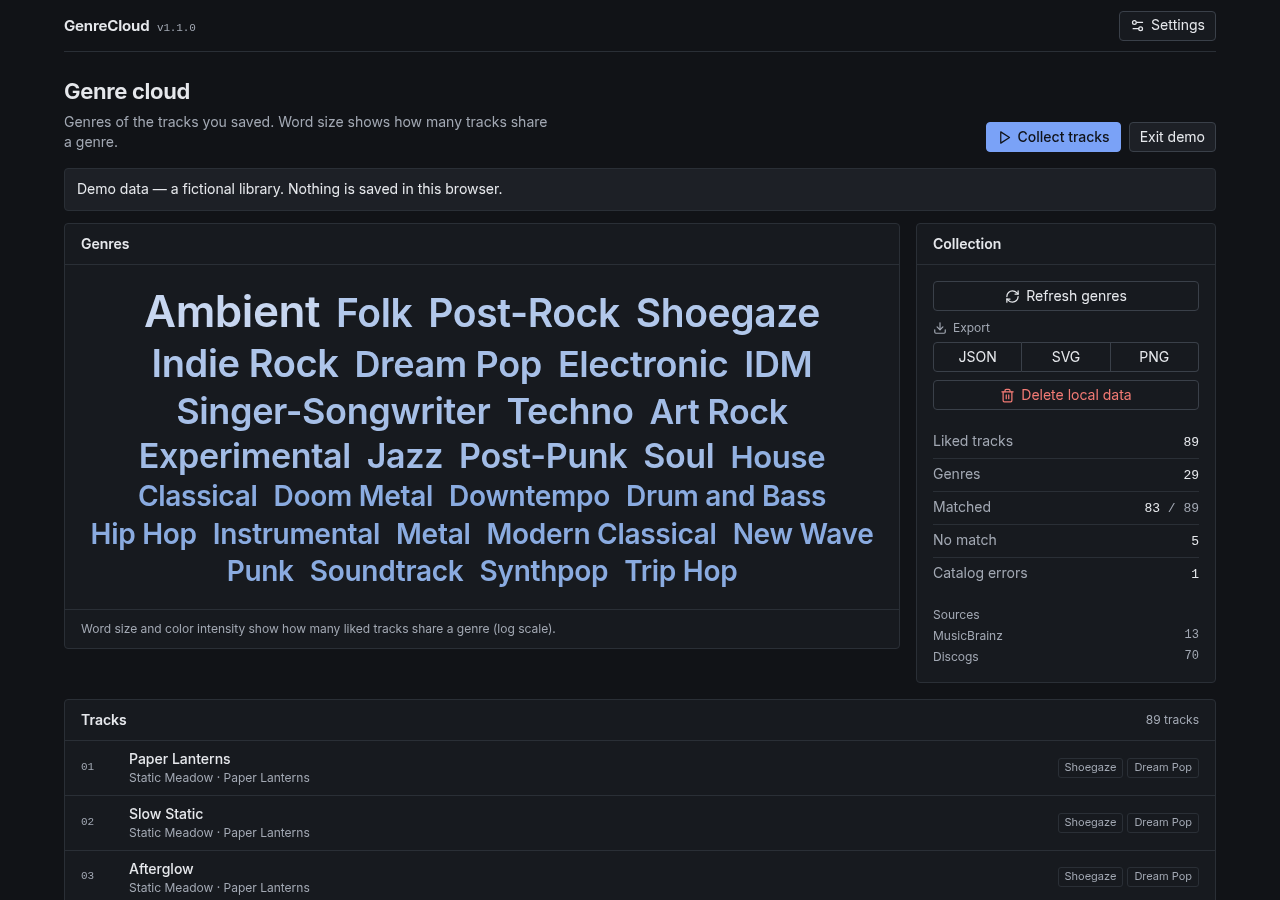
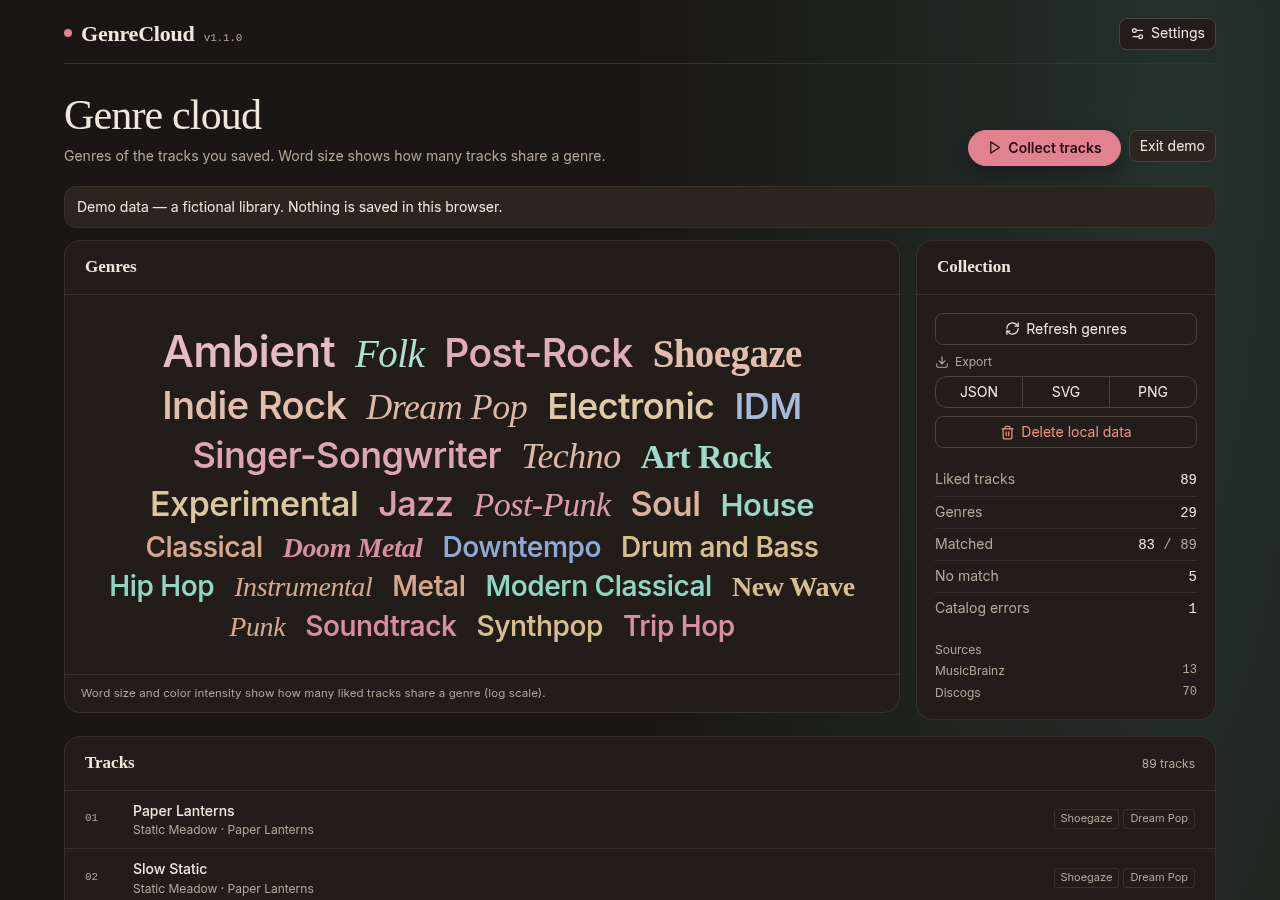
feat(ui): restore the warm paper visual style

diff --git a/src/index.css b/src/index.css
@@ -808,3 +808,216 @@ h3 {
   gap: 8px;
   font-size: 13px;
 }
+
+/* Classic skin: warm paper, ink-like genre colours and serif display type. */
+:root {
+  --bg: #f4efe4;
+  --surface: #fcf8ef;
+  --surface-2: #f1eadc;
+  --text: #232019;
+  --muted: #6b6357;
+  --border: #e2d8c6;
+  --border-strong: #cfc2aa;
+  --accent: #b23a52;
+  --accent-hover: #9a2f45;
+  --accent-soft: #f8e4e7;
+  --danger: #9c2a1f;
+  --danger-soft: #fbe8e4;
+  --radius: 12px;
+  --serif: 'Iowan Old Style', 'Palatino Linotype', Palatino, Georgia, 'Times New Roman', serif;
+}
+
+@media (prefers-color-scheme: dark) {
+  :root {
+    --bg: #191613;
+    --surface: #221d19;
+    --surface-2: #2b2520;
+    --text: #efe7da;
+    --muted: #b3a797;
+    --border: #3a322a;
+    --border-strong: #4c4238;
+    --accent: #e2818f;
+    --accent-hover: #ec98a4;
+    --accent-soft: #38262a;
+    --danger: #ef8f82;
+    --danger-soft: #3a2420;
+  }
+}
+
+body {
+  background:
+    radial-gradient(ellipse at 92% 2%, hsl(168 30% 78% / 0.35), transparent 34rem),
+    radial-gradient(ellipse at 4% 96%, hsl(39 70% 80% / 0.28), transparent 30rem), var(--bg);
+  background-attachment: fixed;
+}
+
+@media (prefers-color-scheme: dark) {
+  body {
+    background:
+      radial-gradient(ellipse at 92% 2%, hsl(168 24% 24% / 0.5), transparent 34rem),
+      radial-gradient(ellipse at 4% 96%, hsl(32 30% 22% / 0.5), transparent 30rem), var(--bg);
+  }
+}
+
+.app {
+  padding-top: 4px;
+}
+
+.topbar {
+  border-bottom: 1px solid var(--border);
+  min-height: 60px;
+}
+
+.brand {
+  font-family: var(--serif);
+  font-size: 22px;
+  font-weight: 600;
+  letter-spacing: -0.01em;
+}
+
+.brand::before {
+  content: '';
+  display: inline-block;
+  width: 8px;
+  height: 8px;
+  margin-right: 9px;
+  border-radius: 50%;
+  background: var(--accent);
+  vertical-align: 0.18em;
+}
+
+h1 {
+  font-family: var(--serif);
+  font-size: clamp(30px, 3.4vw, 42px);
+  font-weight: 500;
+  line-height: 1.04;
+  letter-spacing: -0.02em;
+  margin-bottom: 8px;
+}
+
+h2 {
+  font-family: var(--serif);
+  font-size: 17px;
+  font-weight: 600;
+}
+
+.page-head {
+  padding: 30px 0 20px;
+}
+
+.page-subtitle {
+  color: var(--muted);
+  max-width: 62ch;
+}
+
+button {
+  height: 32px;
+  border-radius: 8px;
+  background: var(--surface);
+  border-color: var(--border-strong);
+}
+
+button:hover:not(:disabled) {
+  background: var(--surface-2);
+}
+
+button.primary {
+  height: 36px;
+  padding: 0 18px;
+  border-radius: 999px;
+  background: var(--accent);
+  border-color: var(--accent);
+  color: #fff8f0;
+  font-weight: 600;
+  box-shadow: 0 8px 18px hsl(350 52% 46% / 0.24);
+}
+
+button.primary:hover:not(:disabled) {
+  background: var(--accent-hover);
+  border-color: var(--accent-hover);
+}
+
+@media (prefers-color-scheme: dark) {
+  button.primary {
+    color: #241014;
+    box-shadow: 0 8px 18px #00000040;
+  }
+}
+
+.panel {
+  border-radius: 16px;
+  background: var(--surface);
+  border-color: var(--border);
+  box-shadow: 0 1px 0 hsl(32 30% 30% / 0.04);
+}
+
+.panel-head {
+  padding: 14px 20px;
+}
+
+.cloud {
+  padding: 30px 22px;
+  gap: 4px 14px;
+}
+
+.cloud-word {
+  font-weight: 550;
+  letter-spacing: -0.015em;
+}
+
+.cloud-word:nth-child(4n + 2) {
+  font-family: var(--serif);
+  font-style: italic;
+  font-weight: 500;
+}
+
+.cloud-word:nth-child(7n + 4) {
+  font-family: var(--serif);
+  font-weight: 600;
+}
+
+.cloud-word.is-selected {
+  border-radius: 6px;
+  background: var(--accent-soft);
+  outline: 2px solid var(--accent);
+  outline-offset: 1px;
+}
+
+.selection-bar {
+  background: var(--accent-soft);
+}
+
+.legend {
+  font-size: 11.5px;
+  letter-spacing: 0.01em;
+}
+
+.side-body {
+  padding: 18px;
+}
+
+.stats dd {
+  font-size: 14px;
+}
+
+.track-row {
+  padding: 10px 20px;
+}
+
+.track-row:hover {
+  background: var(--surface-2);
+}
+
+.notice {
+  border-radius: 12px;
+}
+
+@media (max-width: 720px) {
+  .page-head {
+    padding-top: 22px;
+  }
+
+  .cloud {
+    padding: 20px 14px;
+  }
+}

diff --git a/src/lib/cloud.ts b/src/lib/cloud.ts
@@ -23,17 +23,30 @@ function normalizeWeight(count: number, max: number): number {
   return Math.log(1 + count) / Math.log(1 + max);
 }
 
-export function wordColor(weight: number, theme: CloudTheme): string {
-  const clamped = Math.min(1, Math.max(0, weight));
-  if (theme === 'dark') {
-    // Stronger = lighter on a dark surface. Kept below 90% lightness so the
-    // text never glows, and above 56% for AA contrast on #15171b.
-    const lightness = 56 + Math.round(clamped * 30);
-    return `hsl(217 58% ${lightness}%)`;
+// The classic look used a handful of ink-like hues instead of one accent, so
+// adjacent words stay distinguishable while size still carries the count.
+const WORD_HUES_LIGHT = [350, 168, 36, 218, 18];
+const WORD_HUES_DARK = [350, 165, 40, 218, 20];
+
+function wordHue(name: string): number {
+  let hash = 0;
+  for (let index = 0; index < name.length; index += 1) {
+    hash = (hash * 31 + name.charCodeAt(index)) >>> 0;
   }
-  // Stronger = darker on white: 26–41% lightness stays above 7:1 contrast.
-  const lightness = 41 - Math.round(clamped * 15);
-  return `hsl(217 52% ${lightness}%)`;
+  return hash % 5;
+}
+
+export function wordColor(weight: number, theme: CloudTheme, name = ''): string {
+  const clamped = Math.min(1, Math.max(0, weight));
+  const hue = (theme === 'dark' ? WORD_HUES_DARK : WORD_HUES_LIGHT)[wordHue(name)];
+  if (theme === 'dark') {
+    // Stronger = lighter on the dark paper; 58–82% keeps AA contrast.
+    const lightness = 58 + Math.round(clamped * 24);
+    return `hsl(${hue} 46% ${lightness}%)`;
+  }
+  // Stronger = deeper on the warm paper; 47% down to 31% stays above 5:1.
+  const lightness = 47 - Math.round(clamped * 16);
+  return `hsl(${hue} 52% ${lightness}%)`;
 }
 
 export function buildCloudWords(
@@ -49,7 +62,7 @@ export function buildCloudWords(
       count: item.count,
       weight,
       size: Math.round(minSize + weight * (maxSize - minSize)),
-      color: wordColor(weight, theme),
+      color: wordColor(weight, theme, item.name),
     };
   });
 }

diff --git a/PUBLISH-CHECKLIST.md b/PUBLISH-CHECKLIST.md
@@ -8,9 +8,10 @@ published.
 - [x] Renamed to **GenreCloud** everywhere (UI, manifests, package name, ZIP
       names, User-Agent, export filenames). Storage key kept, schema migration
       added (`src/lib/storage-migration.ts`).
-- [x] New utilitarian UI: neutral palette, one accent, system/Inter font,
-      ≤ 6 px radii, no gradients, shadows or decorative labels; dark theme via
-      `prefers-color-scheme`; en default + ru, switch in Settings.
+- [x] Classic visual style restored on request: warm paper background, a
+      multi-hue ink palette for the cloud, serif display headings with selected
+      italic words, 12–16 px radii and the crimson pill primary button; dark
+      theme via `prefers-color-scheme`; en default + ru, switch in Settings.
 - [x] Cloud: size and single-hue intensity by frequency (log scale, stated in
       the legend), keyboard accessible, click filters the track list.
 - [x] Demo mode with a fictional library; all README screenshots use it.
@@ -119,9 +120,9 @@ published.
   is 604 kB including fonts and both manifests. Three runtime dependencies
   (React, React DOM, Lucide icons).
 - `genrecloud-chrome.zip` — 12 files, SHA-256
[2 lines of base64/hex data omitted]
 - `genrecloud-firefox.zip` — 12 files, SHA-256
[2 lines of base64/hex data omitted]
   A repeated build produced the same checksums.
 - Screenshots in `docs/screenshots/` are all generated from demo data. No
   screenshot of a real library is tracked.

diff --git a/CHANGELOG.md b/CHANGELOG.md
@@ -25,8 +25,9 @@ and the project adheres to [Semantic Versioning](https://semver.org/).
 ### Changed
 
 - Project renamed to **GenreCloud**.
-- Interface rebuilt as a utilitarian tool: neutral palette, one accent color,
-  dark theme via `prefers-color-scheme`, single font family, ≤ 6 px radii.
+- Interface rebuilt: warm paper palette, multi-hue genre cloud, serif display
+  headings with italic words, compact radii; dark theme via
+  `prefers-color-scheme`, en/ru i18n.
 - Lookup is grouped by artist+album: one catalog request per group instead of
   one per track. Discogs and MusicBrainz queues run in parallel.
 - MusicBrainz genres are read from search tags, without a second lookup.
